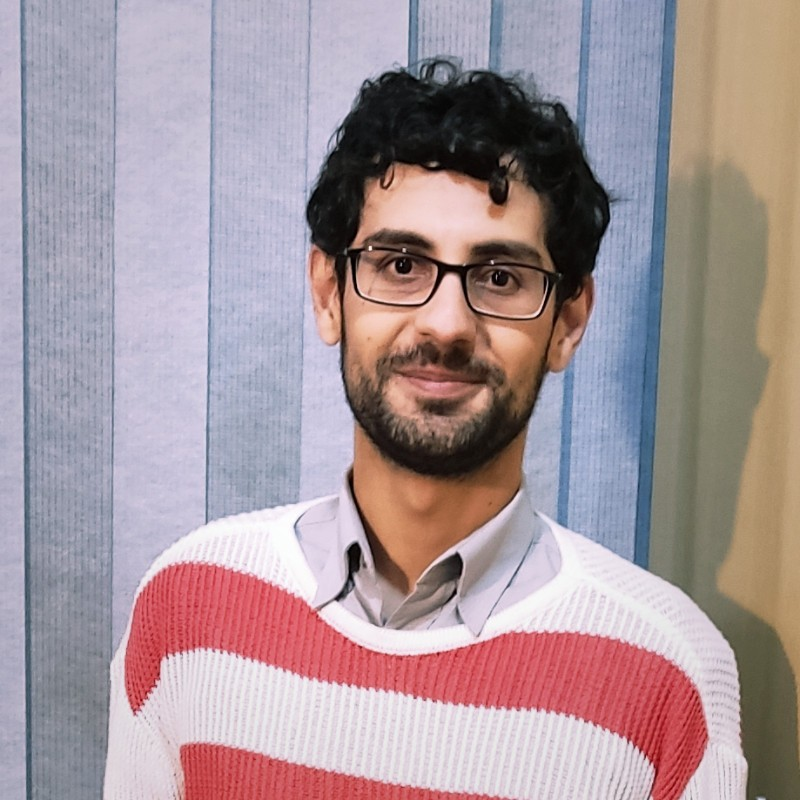
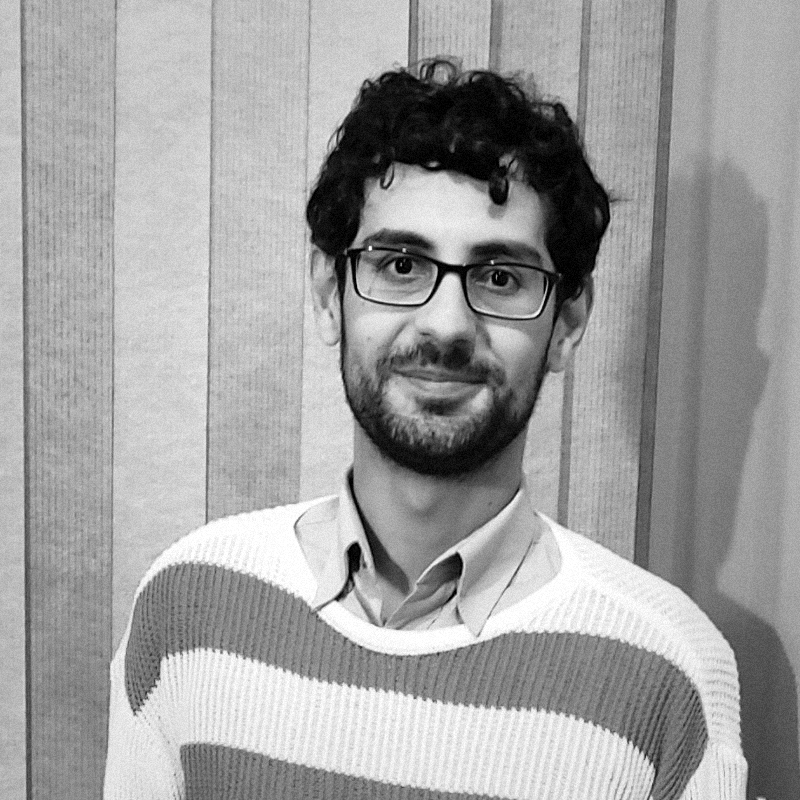
Updated zeitona website

diff --git a/company.html b/company.html
@@ -5,7 +5,7 @@
     <meta charset="UTF-8" />
     <script>(function(){try{var t=localStorage.getItem('zeitona-theme');document.documentElement.dataset.theme=t==='dark'?'dark':'light';}catch(e){document.documentElement.dataset.theme='light';}}());</script>
     <meta name="viewport" content="width=device-width, initial-scale=1.0" />
-    <title data-i18n="company.metaTitle">Company — Zeitona</title>
+    <title data-i18n="company.metaTitle">Company - Zeitona</title>
     <meta name="description" data-i18n-content="company.heroTitle"
         content="A technology company with room to evolve." />
     <link rel="stylesheet" href="style.css" />
@@ -20,10 +20,10 @@
             <div class="container">
                 <p class="eyebrow fade-up" data-i18n="company.outlookEyebrow">Our outlook</p>
                 <h1 class="page-hero-title fade-up delay-100" data-i18n="company.heroTitle">
-                    A technology company with room to evolve.
+                    A technology company with room to evolve
                 </h1>
                 <p class="hero-lead fade-up delay-200" data-i18n="company.heroBody">
-                    Zeitona is not defined by a single technical field or present-day catalogue. The company’s durable focus is the work of understanding difficult questions, developing technology, and collaborating where different forms of knowledge need to meet.
+                    The company’s focus is the work of understanding difficult questions, developing technology, and collaborating where different forms of knowledge need to meet.
                 </p>
             </div>
         </section>
@@ -31,8 +31,8 @@
         <section class="about-perspective section" id="outlook">
             <div class="container about-perspective-grid">
                 <div class="about-section-heading fade-up">
-                    <p class="about-eyebrow" data-i18n="company.outlookEyebrow">Our outlook</p>
-                    <h2 class="section-title text-left" data-i18n="company.outlookTitle">Begin with the problem, not a predetermined answer.</h2>
+                    <p class="about-eyebrow" data-i18n="company.outlookEyebrow"></p>
+                    <h2 class="section-title text-left" data-i18n="company.outlookTitle">Begin with the problem</h2>
                 </div>
                 <div class="about-copy fade-up delay-100">
                     <p data-i18n="company.outlookLead">A technical problem is shaped by more than its specification. People, evidence, institutional requirements, practical constraints, and uncertainty all influence what a responsible answer looks like.</p>
@@ -71,9 +71,9 @@
             <div class="container">
                 <div class="section-header fade-up">
                     <p class="about-eyebrow" data-i18n="company.peopleEyebrow">People</p>
-                    <h2 class="section-title" data-i18n="company.foundersTitle">The founders behind Zeitona.</h2>
+                    <h2 class="section-title" data-i18n="company.foundersTitle"></h2>
                     <p class="section-description" data-i18n="company.foundersBody">
-                        The company is represented here by the two people identified in its approved, site-hosted founder portraits. Personal details beyond the verified names and founder role are intentionally omitted.
+                        
                     </p>
                 </div>
 
@@ -120,7 +120,7 @@
             <div class="container about-perspective-grid">
                 <div class="about-section-heading fade-up">
                     <p class="about-eyebrow" data-i18n="company.workingEyebrow">Working with others</p>
-                    <h2 class="section-title text-left" data-i18n="company.workingTitle">A company can contribute without needing to own every part of the work.</h2>
+                    <h2 class="section-title text-left" data-i18n="company.workingTitle">A company can contribute without needing to own every part of the work</h2>
                 </div>
                 <div class="about-copy fade-up delay-100">
                     <p data-i18n="company.workingBody">Some projects are direct and bilateral. Others are shaped by institutional programmes, university relationships, research questions, or multi-party arrangements. Zeitona’s broad technological identity leaves room for each of these structures.</p>

diff --git a/innovation.html b/innovation.html
@@ -20,7 +20,7 @@
             <div class="container">
                 <p class="eyebrow fade-up" data-i18n="innovation.heroEyebrow">Innovation and research</p>
                 <h1 class="page-hero-title fade-up delay-100" data-i18n="innovation.heroTitle">
-                    Make space for questions that do not have settled answers.
+                    Make space for questions that do not have settled answers
                 </h1>
                 <p class="hero-lead fade-up delay-200" data-i18n="innovation.heroBody">
                     Research and experimentation are credible parts of technological work. This page will provide a durable home for verified initiatives, studies, programmes, publications, and technical exploration as that material becomes available.
@@ -31,8 +31,8 @@
         <section class="about-perspective section" id="discipline">
             <div class="container about-perspective-grid">
                 <div class="about-section-heading fade-up">
-                    <p class="about-eyebrow" data-i18n="innovation.disciplineEyebrow">A working discipline</p>
-                    <h2 class="section-title text-left" data-i18n="innovation.disciplineTitle">Innovation begins with uncertainty, not decoration.</h2>
+                    <p class="about-eyebrow" data-i18n="innovation.disciplineEyebrow"></p>
+                    <h2 class="section-title text-left" data-i18n="innovation.disciplineTitle">Innovation begins with uncertainty</h2>
                 </div>
                 <div class="about-copy fade-up delay-100">
                     <p data-i18n="innovation.disciplineLead">A technical question may require study, comparison, experimentation, or a prototype before a responsible development direction becomes clear.</p>
@@ -45,7 +45,7 @@
             <div class="container">
                 <div class="section-header fade-up">
                     <p class="about-eyebrow" data-i18n="innovation.structureEyebrow">A durable structure</p>
-                    <h2 class="section-title" data-i18n="innovation.structureTitle">Different forms of exploration need different evidence.</h2>
+                    <h2 class="section-title" data-i18n="innovation.structureTitle">Different forms of exploration need different evidence</h2>
                 </div>
                 <div class="about-principles">
                     <article class="about-principle card fade-up">
@@ -76,11 +76,11 @@
             <div class="container about-perspective-grid">
                 <div class="about-section-heading fade-up">
                     <p class="about-eyebrow" data-i18n="innovation.recordEyebrow">Current record</p>
-                    <h2 class="section-title text-left" data-i18n="innovation.recordTitle">Evidence should be visible before activity is presented as fact.</h2>
+                    <h2 class="section-title text-left" data-i18n="innovation.recordTitle">Evidence should be visible before activity is presented as fact</h2>
                 </div>
                 <div class="about-copy fade-up delay-100">
-                    <p data-i18n="innovation.recordBody">No named programme, university relationship, accelerator, publication, experimental project, or research result is supported by the current repository. None has been invented to make this page appear busier.</p>
-                    <p data-i18n="innovation.recordBodyTwo">As verified material becomes available, this structure can accommodate it without changing Zeitona’s broader identity or implying that one field defines the company.</p>
+                    <p data-i18n="innovation.recordBody"> </p>
+                    <p data-i18n="innovation.recordBodyTwo"> </p>
                     <p class="hero-actions">
                         <a href="collaboration.html" class="card-link" data-i18n="innovation.link">Explore research collaboration</a>
                     </p>

diff --git a/i18n.js b/i18n.js
@@ -478,8 +478,8 @@
             "metaTitle": "Zeitona — Tecnologia orientada para trabalho relevante",
             "metaDescription": "A Zeitona é uma empresa de tecnologia aberta a desenvolvimento complexo, investigação, inovação e colaboração entre organizações.",
             "heroEyebrow": "Zeitona · Empresa de tecnologia",
-            "heroTitle": "A cultivar a mudança através da inovação.",
-            "heroTitleHtml": "<span class=\"hero-part-a\">A cultivar a mudança</span> <span class=\"hero-part-b\">através da</span> <span class=\"hero-part-c\">inovação.</span>",
+            "heroTitle": "Growing change through innovation.",
+            "heroTitleHtml": "<span class=\"hero-part-a\">Growing change</span> <span class=\"hero-part-b\">through</span> <span class=\"hero-part-c\">innovation.</span>",
             "heroBody": "Abordamos a tecnologia como uma forma de compreender, desenvolver, testar e ligar ideias entre organizações — não como um rótulo preso a um único mercado ou disciplina.",
             "companyLink": "Conheça a Zeitona",
             "outlookTitle": "Definida pela capacidade de compreender e construir.",
@@ -686,8 +686,8 @@
             "metaTitle": "Zeitona — Tecnologia orientada por trabalhos relevantes",
             "metaDescription": "A Zeitona é uma empresa de tecnologia aberta a desenvolvimento complexo, pesquisa, inovação e colaboração entre organizações.",
             "heroEyebrow": "Zeitona · Empresa de tecnologia",
-            "heroTitle": "Cultivando a mudança através da inovação.",
-            "heroTitleHtml": "<span class=\"hero-part-a\">Cultivando a mudança</span> <span class=\"hero-part-b\">através da</span> <span class=\"hero-part-c\">inovação.</span>",
+            "heroTitle": "Growing change through innovation.",
+            "heroTitleHtml": "<span class=\"hero-part-a\">Growing change</span> <span class=\"hero-part-b\">through</span> <span class=\"hero-part-c\">innovation.</span>",
             "heroBody": "Abordamos a tecnologia como uma forma de compreender, desenvolver, testar e conectar ideias entre organizações — não como um rótulo preso a um único mercado ou disciplina.",
             "companyLink": "Conheça a Zeitona",
             "outlookTitle": "Definida pela capacidade de compreender e construir.",

diff --git a/contact.html b/contact.html
@@ -5,7 +5,7 @@
     <meta charset="UTF-8" />
     <script>(function () { try { var t = localStorage.getItem('zeitona-theme'); document.documentElement.dataset.theme = t === 'dark' ? 'dark' : 'light'; } catch (e) { document.documentElement.dataset.theme = 'light'; } }());</script>
     <meta name="viewport" content="width=device-width, initial-scale=1.0" />
-    <title data-i18n="contact.metaTitle">Contact — Zeitona</title>
+    <title data-i18n="contact.metaTitle">Contact - Zeitona</title>
     <meta name="description" data-i18n-content="contact.heroTitle"
         content="Begin with the work you want to understand." />
     <link rel="stylesheet" href="style.css" />
@@ -20,7 +20,7 @@
             <div class="container">
                 <div class="contact-email-card fade-up">
                     <p class="about-eyebrow" data-i18n="contact.emailEyebrow">Contact email</p>
-                    <h2 class="section-title" data-i18n="contact.emailTitle">Write directly to us.</h2>
+                    <h2 class="section-title" data-i18n="contact.emailTitle">Write directly to us</h2>
                     <p>
                         <a class="card-link contact-email-link" href="mailto:contact@zeitona.pt">contact@zeitona.pt</a>
                     </p>

diff --git a/index.html b/index.html
@@ -66,7 +66,7 @@
             <div class="container about-perspective-grid">
                 <div class="about-section-heading fade-up">
                     <p class="about-eyebrow" data-i18n="home.contactEyebrow"></p>
-                    <h2 class="section-title text-left" data-i18n="home.contactTitle">Bring the context, even if the project is still taking shape.</h2>
+                    <h2 class="section-title text-left" data-i18n="home.contactTitle">Bring the context, even if the project is still taking shape</h2>
                 </div>
                 <div class="about-copy fade-up delay-100">
                     <p data-i18n="home.contactBody">Companies, universities, research organizations, institutions, programmes, and consortium partners can begin with the question they are trying to address.</p>
